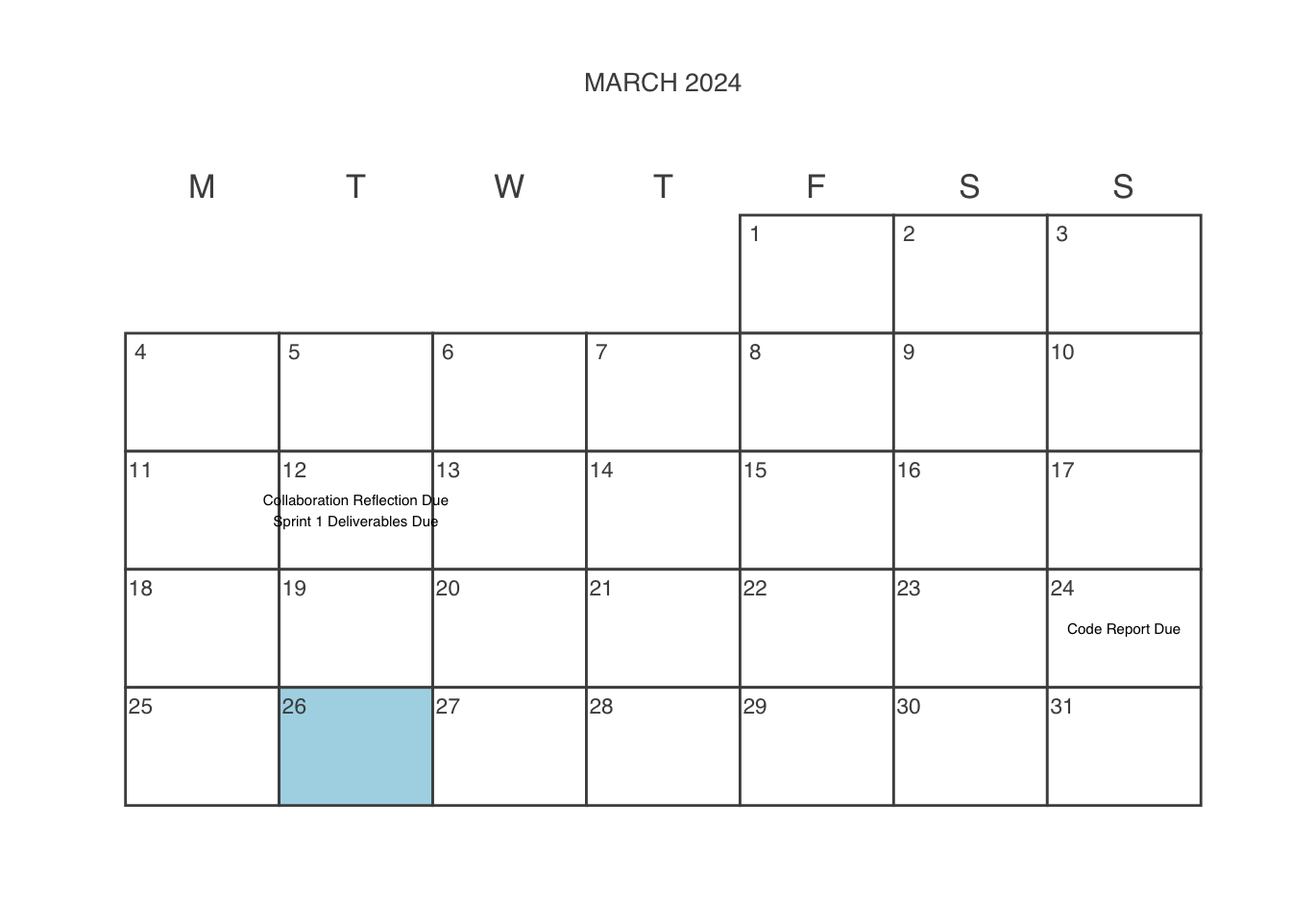
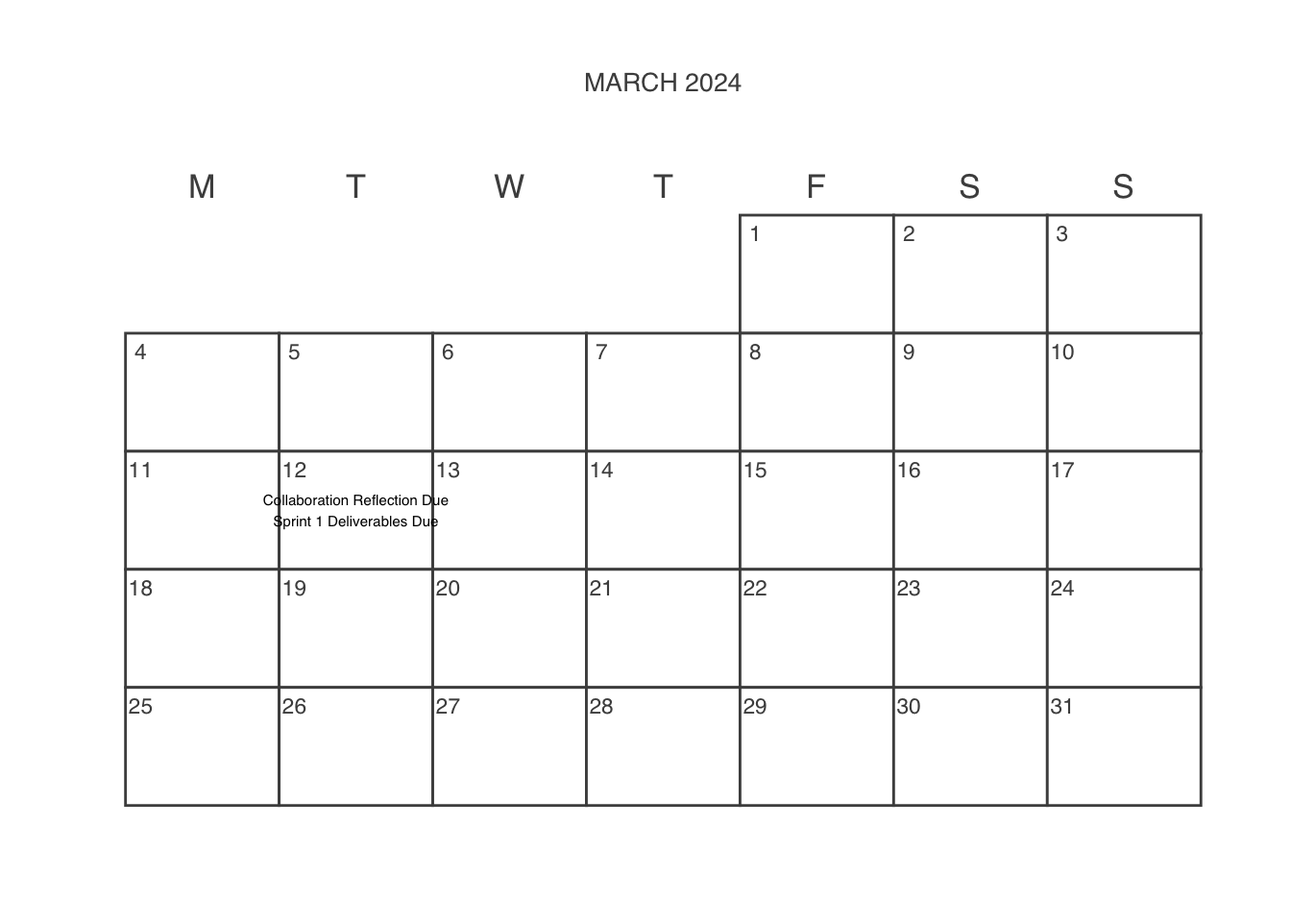
updated assignment schedule

Changed region(s): [[0.2188, 0.75, 0.3438, 0.875], [0.8438, 0.6562, 0.9062, 0.6875]]

diff --git a/docs/schedule.html b/docs/schedule.html
@@ -563,8 +563,7 @@ Calendar View for Major Assignments
 <ul class="nav nav-tabs" role="tablist"><li class="nav-item" role="presentation"><a class="nav-link active" id="tabset-13-1-tab" data-bs-toggle="tab" data-bs-target="#tabset-13-1" role="tab" aria-controls="tabset-13-1" aria-selected="true">Due Today</a></li><li class="nav-item" role="presentation"><a class="nav-link" id="tabset-13-2-tab" data-bs-toggle="tab" data-bs-target="#tabset-13-2" role="tab" aria-controls="tabset-13-2" aria-selected="false">Further Resources</a></li></ul>
 <div class="tab-content">
 <div id="tabset-13-1" class="tab-pane active" role="tabpanel" aria-labelledby="tabset-13-1-tab">
-<p><svg aria-hidden="true" role="img" viewbox="0 0 384 512" style="height:1em;width:0.75em;vertical-align:-0.125em;margin-left:auto;margin-right:auto;font-size:inherit;fill:currentColor;overflow:visible;position:relative;"><path d="M64 464c-8.8 0-16-7.2-16-16V64c0-8.8 7.2-16 16-16H224v80c0 17.7 14.3 32 32 32h80V448c0 8.8-7.2 16-16 16H64zM64 0C28.7 0 0 28.7 0 64V448c0 35.3 28.7 64 64 64H320c35.3 0 64-28.7 64-64V154.5c0-17-6.7-33.3-18.7-45.3L274.7 18.7C262.7 6.7 246.5 0 229.5 0H64zm56 256c-13.3 0-24 10.7-24 24s10.7 24 24 24H264c13.3 0 24-10.7 24-24s-10.7-24-24-24H120zm0 96c-13.3 0-24 10.7-24 24s10.7 24 24 24H264c13.3 0 24-10.7 24-24s-10.7-24-24-24H120z"></path></svg> Get started on <a href="(https://sds-238-community-based-data-science.github.io/public-website-spring-25/assignments.html#collaboration-reflection)">Collaboration Reflection</a><br>
-<svg aria-hidden="true" role="img" viewbox="0 0 384 512" style="height:1em;width:0.75em;vertical-align:-0.125em;margin-left:auto;margin-right:auto;font-size:inherit;fill:currentColor;overflow:visible;position:relative;"><path d="M64 464c-8.8 0-16-7.2-16-16V64c0-8.8 7.2-16 16-16H224v80c0 17.7 14.3 32 32 32h80V448c0 8.8-7.2 16-16 16H64zM64 0C28.7 0 0 28.7 0 64V448c0 35.3 28.7 64 64 64H320c35.3 0 64-28.7 64-64V154.5c0-17-6.7-33.3-18.7-45.3L274.7 18.7C262.7 6.7 246.5 0 229.5 0H64zm56 256c-13.3 0-24 10.7-24 24s10.7 24 24 24H264c13.3 0 24-10.7 24-24s-10.7-24-24-24H120zm0 96c-13.3 0-24 10.7-24 24s10.7 24 24 24H264c13.3 0 24-10.7 24-24s-10.7-24-24-24H120z"></path></svg> Continue working on <a href="https://sds-238-community-based-data-science.github.io/public-website-spring-25/assignments.html#code-reports">Code Report</a></p>
+<p><svg aria-hidden="true" role="img" viewbox="0 0 384 512" style="height:1em;width:0.75em;vertical-align:-0.125em;margin-left:auto;margin-right:auto;font-size:inherit;fill:currentColor;overflow:visible;position:relative;"><path d="M64 464c-8.8 0-16-7.2-16-16V64c0-8.8 7.2-16 16-16H224v80c0 17.7 14.3 32 32 32h80V448c0 8.8-7.2 16-16 16H64zM64 0C28.7 0 0 28.7 0 64V448c0 35.3 28.7 64 64 64H320c35.3 0 64-28.7 64-64V154.5c0-17-6.7-33.3-18.7-45.3L274.7 18.7C262.7 6.7 246.5 0 229.5 0H64zm56 256c-13.3 0-24 10.7-24 24s10.7 24 24 24H264c13.3 0 24-10.7 24-24s-10.7-24-24-24H120zm0 96c-13.3 0-24 10.7-24 24s10.7 24 24 24H264c13.3 0 24-10.7 24-24s-10.7-24-24-24H120z"></path></svg> Get started on <a href="(https://sds-238-community-based-data-science.github.io/public-website-spring-25/assignments.html#collaboration-reflection)">Collaboration Reflection</a></p>
 </div>
 <div id="tabset-13-2" class="tab-pane" role="tabpanel" aria-labelledby="tabset-13-2-tab">
 
@@ -583,8 +582,7 @@ Calendar View for Major Assignments
 <div id="tabset-14-1" class="tab-pane active" role="tabpanel" aria-labelledby="tabset-14-1-tab">
 <p><svg aria-hidden="true" role="img" viewbox="0 0 640 512" style="height:1em;width:1.25em;vertical-align:-0.125em;margin-left:auto;margin-right:auto;font-size:inherit;fill:currentColor;overflow:visible;position:relative;"><path d="M96 128a128 128 0 1 1 256 0A128 128 0 1 1 96 128zM0 482.3C0 383.8 79.8 304 178.3 304h91.4C368.2 304 448 383.8 448 482.3c0 16.4-13.3 29.7-29.7 29.7H29.7C13.3 512 0 498.7 0 482.3zM609.3 512H471.4c5.4-9.4 8.6-20.3 8.6-32v-8c0-60.7-27.1-115.2-69.8-151.8c2.4-.1 4.7-.2 7.1-.2h61.4C567.8 320 640 392.2 640 481.3c0 17-13.8 30.7-30.7 30.7zM432 256c-31 0-59-12.6-79.3-32.9C372.4 196.5 384 163.6 384 128c0-26.8-6.6-52.1-18.3-74.3C384.3 40.1 407.2 32 432 32c61.9 0 112 50.1 112 112s-50.1 112-112 112z"></path></svg> Sprint 1 Deliverables Due (5)<br>
 <svg aria-hidden="true" role="img" viewbox="0 0 640 512" style="height:1em;width:1.25em;vertical-align:-0.125em;margin-left:auto;margin-right:auto;font-size:inherit;fill:currentColor;overflow:visible;position:relative;"><path d="M96 128a128 128 0 1 1 256 0A128 128 0 1 1 96 128zM0 482.3C0 383.8 79.8 304 178.3 304h91.4C368.2 304 448 383.8 448 482.3c0 16.4-13.3 29.7-29.7 29.7H29.7C13.3 512 0 498.7 0 482.3zM609.3 512H471.4c5.4-9.4 8.6-20.3 8.6-32v-8c0-60.7-27.1-115.2-69.8-151.8c2.4-.1 4.7-.2 7.1-.2h61.4C567.8 320 640 392.2 640 481.3c0 17-13.8 30.7-30.7 30.7zM432 256c-31 0-59-12.6-79.3-32.9C372.4 196.5 384 163.6 384 128c0-26.8-6.6-52.1-18.3-74.3C384.3 40.1 407.2 32 432 32c61.9 0 112 50.1 112 112s-50.1 112-112 112z"></path></svg> Don’t forget to complete the <a href="https://docs.google.com/document/d/1KHAv6os1HLhT7lL5jtBmHWDHxI0V73RZ27xDV-PN_xw/edit?tab=t.0">self-assessment form</a>!</p>
-<p><svg aria-hidden="true" role="img" viewbox="0 0 384 512" style="height:1em;width:0.75em;vertical-align:-0.125em;margin-left:auto;margin-right:auto;font-size:inherit;fill:currentColor;overflow:visible;position:relative;"><path d="M64 464c-8.8 0-16-7.2-16-16V64c0-8.8 7.2-16 16-16H224v80c0 17.7 14.3 32 32 32h80V448c0 8.8-7.2 16-16 16H64zM64 0C28.7 0 0 28.7 0 64V448c0 35.3 28.7 64 64 64H320c35.3 0 64-28.7 64-64V154.5c0-17-6.7-33.3-18.7-45.3L274.7 18.7C262.7 6.7 246.5 0 229.5 0H64zm56 256c-13.3 0-24 10.7-24 24s10.7 24 24 24H264c13.3 0 24-10.7 24-24s-10.7-24-24-24H120zm0 96c-13.3 0-24 10.7-24 24s10.7 24 24 24H264c13.3 0 24-10.7 24-24s-10.7-24-24-24H120z"></path></svg> <a href="https://sds-238-community-based-data-science.github.io/public-website-spring-25/assignments.html#collaboration-reflection">Collaboration Reflection</a> Due (4)<br>
-<svg aria-hidden="true" role="img" viewbox="0 0 384 512" style="height:1em;width:0.75em;vertical-align:-0.125em;margin-left:auto;margin-right:auto;font-size:inherit;fill:currentColor;overflow:visible;position:relative;"><path d="M64 464c-8.8 0-16-7.2-16-16V64c0-8.8 7.2-16 16-16H224v80c0 17.7 14.3 32 32 32h80V448c0 8.8-7.2 16-16 16H64zM64 0C28.7 0 0 28.7 0 64V448c0 35.3 28.7 64 64 64H320c35.3 0 64-28.7 64-64V154.5c0-17-6.7-33.3-18.7-45.3L274.7 18.7C262.7 6.7 246.5 0 229.5 0H64zm56 256c-13.3 0-24 10.7-24 24s10.7 24 24 24H264c13.3 0 24-10.7 24-24s-10.7-24-24-24H120zm0 96c-13.3 0-24 10.7-24 24s10.7 24 24 24H264c13.3 0 24-10.7 24-24s-10.7-24-24-24H120z"></path></svg> Continue working on <a href="https://sds-238-community-based-data-science.github.io/public-website-spring-25/assignments.html#code-reports">Code Report</a></p>
+<p><svg aria-hidden="true" role="img" viewbox="0 0 384 512" style="height:1em;width:0.75em;vertical-align:-0.125em;margin-left:auto;margin-right:auto;font-size:inherit;fill:currentColor;overflow:visible;position:relative;"><path d="M64 464c-8.8 0-16-7.2-16-16V64c0-8.8 7.2-16 16-16H224v80c0 17.7 14.3 32 32 32h80V448c0 8.8-7.2 16-16 16H64zM64 0C28.7 0 0 28.7 0 64V448c0 35.3 28.7 64 64 64H320c35.3 0 64-28.7 64-64V154.5c0-17-6.7-33.3-18.7-45.3L274.7 18.7C262.7 6.7 246.5 0 229.5 0H64zm56 256c-13.3 0-24 10.7-24 24s10.7 24 24 24H264c13.3 0 24-10.7 24-24s-10.7-24-24-24H120zm0 96c-13.3 0-24 10.7-24 24s10.7 24 24 24H264c13.3 0 24-10.7 24-24s-10.7-24-24-24H120z"></path></svg> <a href="https://sds-238-community-based-data-science.github.io/public-website-spring-25/assignments.html#collaboration-reflection">Collaboration Reflection</a> Due (4)</p>
 </div>
 <div id="tabset-14-2" class="tab-pane" role="tabpanel" aria-labelledby="tabset-14-2-tab">
 
@@ -635,9 +633,7 @@ Calendar View for Major Assignments
 <ul class="nav nav-tabs" role="tablist"><li class="nav-item" role="presentation"><a class="nav-link active" id="tabset-17-1-tab" data-bs-toggle="tab" data-bs-target="#tabset-17-1" role="tab" aria-controls="tabset-17-1" aria-selected="true">Due Today</a></li><li class="nav-item" role="presentation"><a class="nav-link" id="tabset-17-2-tab" data-bs-toggle="tab" data-bs-target="#tabset-17-2" role="tab" aria-controls="tabset-17-2" aria-selected="false">Further Resources</a></li></ul>
 <div class="tab-content">
 <div id="tabset-17-1" class="tab-pane active" role="tabpanel" aria-labelledby="tabset-17-1-tab">
-<p><svg aria-hidden="true" role="img" viewbox="0 0 384 512" style="height:1em;width:0.75em;vertical-align:-0.125em;margin-left:auto;margin-right:auto;font-size:inherit;fill:currentColor;overflow:visible;position:relative;"><path d="M64 464c-8.8 0-16-7.2-16-16V64c0-8.8 7.2-16 16-16H224v80c0 17.7 14.3 32 32 32h80V448c0 8.8-7.2 16-16 16H64zM64 0C28.7 0 0 28.7 0 64V448c0 35.3 28.7 64 64 64H320c35.3 0 64-28.7 64-64V154.5c0-17-6.7-33.3-18.7-45.3L274.7 18.7C262.7 6.7 246.5 0 229.5 0H64zm56 256c-13.3 0-24 10.7-24 24s10.7 24 24 24H264c13.3 0 24-10.7 24-24s-10.7-24-24-24H120zm0 96c-13.3 0-24 10.7-24 24s10.7 24 24 24H264c13.3 0 24-10.7 24-24s-10.7-24-24-24H120z"></path></svg> <a href="https://sds-238-community-based-data-science.github.io/public-website-spring-25/assignments.html#code-reports">Code Report</a> Due (4)<br>
-<svg aria-hidden="true" role="img" viewbox="0 0 384 512" style="height:1em;width:0.75em;vertical-align:-0.125em;margin-left:auto;margin-right:auto;font-size:inherit;fill:currentColor;overflow:visible;position:relative;"><path d="M64 464c-8.8 0-16-7.2-16-16V64c0-8.8 7.2-16 16-16H224v80c0 17.7 14.3 32 32 32h80V448c0 8.8-7.2 16-16 16H64zM64 0C28.7 0 0 28.7 0 64V448c0 35.3 28.7 64 64 64H320c35.3 0 64-28.7 64-64V154.5c0-17-6.7-33.3-18.7-45.3L274.7 18.7C262.7 6.7 246.5 0 229.5 0H64zm56 256c-13.3 0-24 10.7-24 24s10.7 24 24 24H264c13.3 0 24-10.7 24-24s-10.7-24-24-24H120zm0 96c-13.3 0-24 10.7-24 24s10.7 24 24 24H264c13.3 0 24-10.7 24-24s-10.7-24-24-24H120z"></path></svg> Get started on <a href="https://sds-238-community-based-data-science.github.io/public-website-spring-25/assignments.html#independent-learning-reflection">Independent Learning Reflection</a><br>
-<svg aria-hidden="true" role="img" viewbox="0 0 384 512" style="height:1em;width:0.75em;vertical-align:-0.125em;margin-left:auto;margin-right:auto;font-size:inherit;fill:currentColor;overflow:visible;position:relative;"><path d="M64 464c-8.8 0-16-7.2-16-16V64c0-8.8 7.2-16 16-16H224v80c0 17.7 14.3 32 32 32h80V448c0 8.8-7.2 16-16 16H64zM64 0C28.7 0 0 28.7 0 64V448c0 35.3 28.7 64 64 64H320c35.3 0 64-28.7 64-64V154.5c0-17-6.7-33.3-18.7-45.3L274.7 18.7C262.7 6.7 246.5 0 229.5 0H64zm56 256c-13.3 0-24 10.7-24 24s10.7 24 24 24H264c13.3 0 24-10.7 24-24s-10.7-24-24-24H120zm0 96c-13.3 0-24 10.7-24 24s10.7 24 24 24H264c13.3 0 24-10.7 24-24s-10.7-24-24-24H120z"></path></svg> Get started on <a href="https://sds-238-community-based-data-science.github.io/public-website-spring-25/assignments.html#code-reports">Code Report</a></p>
+<p><svg aria-hidden="true" role="img" viewbox="0 0 384 512" style="height:1em;width:0.75em;vertical-align:-0.125em;margin-left:auto;margin-right:auto;font-size:inherit;fill:currentColor;overflow:visible;position:relative;"><path d="M64 464c-8.8 0-16-7.2-16-16V64c0-8.8 7.2-16 16-16H224v80c0 17.7 14.3 32 32 32h80V448c0 8.8-7.2 16-16 16H64zM64 0C28.7 0 0 28.7 0 64V448c0 35.3 28.7 64 64 64H320c35.3 0 64-28.7 64-64V154.5c0-17-6.7-33.3-18.7-45.3L274.7 18.7C262.7 6.7 246.5 0 229.5 0H64zm56 256c-13.3 0-24 10.7-24 24s10.7 24 24 24H264c13.3 0 24-10.7 24-24s-10.7-24-24-24H120zm0 96c-13.3 0-24 10.7-24 24s10.7 24 24 24H264c13.3 0 24-10.7 24-24s-10.7-24-24-24H120z"></path></svg> Get started on <a href="https://sds-238-community-based-data-science.github.io/public-website-spring-25/assignments.html#independent-learning-reflection">Independent Learning Reflection</a></p>
 </div>
 <div id="tabset-17-2" class="tab-pane" role="tabpanel" aria-labelledby="tabset-17-2-tab">
 
@@ -654,9 +650,7 @@ Calendar View for Major Assignments
 <ul class="nav nav-tabs" role="tablist"><li class="nav-item" role="presentation"><a class="nav-link active" id="tabset-18-1-tab" data-bs-toggle="tab" data-bs-target="#tabset-18-1" role="tab" aria-controls="tabset-18-1" aria-selected="true">Due Today</a></li><li class="nav-item" role="presentation"><a class="nav-link" id="tabset-18-2-tab" data-bs-toggle="tab" data-bs-target="#tabset-18-2" role="tab" aria-controls="tabset-18-2" aria-selected="false">Further Resources</a></li></ul>
 <div class="tab-content">
 <div id="tabset-18-1" class="tab-pane active" role="tabpanel" aria-labelledby="tabset-18-1-tab">
-<p><svg aria-hidden="true" role="img" viewbox="0 0 448 512" style="height:1em;width:0.88em;vertical-align:-0.125em;margin-left:auto;margin-right:auto;font-size:inherit;fill:currentColor;overflow:visible;position:relative;"><path d="M96 0C43 0 0 43 0 96V416c0 53 43 96 96 96H384h32c17.7 0 32-14.3 32-32s-14.3-32-32-32V384c17.7 0 32-14.3 32-32V32c0-17.7-14.3-32-32-32H384 96zm0 384H352v64H96c-17.7 0-32-14.3-32-32s14.3-32 32-32zm32-240c0-8.8 7.2-16 16-16H336c8.8 0 16 7.2 16 16s-7.2 16-16 16H144c-8.8 0-16-7.2-16-16zm16 48H336c8.8 0 16 7.2 16 16s-7.2 16-16 16H144c-8.8 0-16-7.2-16-16s7.2-16 16-16z"></path></svg> Chapter 3 , Costanza-Chock, Sasha (2020). <em>Design Justice: Community-Led Practices to Build the Worlds We Need</em>. Erscheinungsort nicht ermittelbar: The MIT Press. ISBN: 978-0-262-04345-8. <a href="https://app.perusall.com/courses/sds238-01-community-based-data-science/">Read in Perusall</a></p>
-<p><svg aria-hidden="true" role="img" viewbox="0 0 384 512" style="height:1em;width:0.75em;vertical-align:-0.125em;margin-left:auto;margin-right:auto;font-size:inherit;fill:currentColor;overflow:visible;position:relative;"><path d="M64 464c-8.8 0-16-7.2-16-16V64c0-8.8 7.2-16 16-16H224v80c0 17.7 14.3 32 32 32h80V448c0 8.8-7.2 16-16 16H64zM64 0C28.7 0 0 28.7 0 64V448c0 35.3 28.7 64 64 64H320c35.3 0 64-28.7 64-64V154.5c0-17-6.7-33.3-18.7-45.3L274.7 18.7C262.7 6.7 246.5 0 229.5 0H64zm56 256c-13.3 0-24 10.7-24 24s10.7 24 24 24H264c13.3 0 24-10.7 24-24s-10.7-24-24-24H120zm0 96c-13.3 0-24 10.7-24 24s10.7 24 24 24H264c13.3 0 24-10.7 24-24s-10.7-24-24-24H120z"></path></svg> Continue working on <a href="https://sds-238-community-based-data-science.github.io/public-website-spring-25/assignments.html#independent-learning-reflection">Independent Learning Reflection</a><br>
-<svg aria-hidden="true" role="img" viewbox="0 0 384 512" style="height:1em;width:0.75em;vertical-align:-0.125em;margin-left:auto;margin-right:auto;font-size:inherit;fill:currentColor;overflow:visible;position:relative;"><path d="M64 464c-8.8 0-16-7.2-16-16V64c0-8.8 7.2-16 16-16H224v80c0 17.7 14.3 32 32 32h80V448c0 8.8-7.2 16-16 16H64zM64 0C28.7 0 0 28.7 0 64V448c0 35.3 28.7 64 64 64H320c35.3 0 64-28.7 64-64V154.5c0-17-6.7-33.3-18.7-45.3L274.7 18.7C262.7 6.7 246.5 0 229.5 0H64zm56 256c-13.3 0-24 10.7-24 24s10.7 24 24 24H264c13.3 0 24-10.7 24-24s-10.7-24-24-24H120zm0 96c-13.3 0-24 10.7-24 24s10.7 24 24 24H264c13.3 0 24-10.7 24-24s-10.7-24-24-24H120z"></path></svg> Continue working on <a href="https://sds-238-community-based-data-science.github.io/public-website-spring-25/assignments.html#code-reports">Code Report</a></p>
+<p><svg aria-hidden="true" role="img" viewbox="0 0 384 512" style="height:1em;width:0.75em;vertical-align:-0.125em;margin-left:auto;margin-right:auto;font-size:inherit;fill:currentColor;overflow:visible;position:relative;"><path d="M64 464c-8.8 0-16-7.2-16-16V64c0-8.8 7.2-16 16-16H224v80c0 17.7 14.3 32 32 32h80V448c0 8.8-7.2 16-16 16H64zM64 0C28.7 0 0 28.7 0 64V448c0 35.3 28.7 64 64 64H320c35.3 0 64-28.7 64-64V154.5c0-17-6.7-33.3-18.7-45.3L274.7 18.7C262.7 6.7 246.5 0 229.5 0H64zm56 256c-13.3 0-24 10.7-24 24s10.7 24 24 24H264c13.3 0 24-10.7 24-24s-10.7-24-24-24H120zm0 96c-13.3 0-24 10.7-24 24s10.7 24 24 24H264c13.3 0 24-10.7 24-24s-10.7-24-24-24H120z"></path></svg> Continue working on <a href="https://sds-238-community-based-data-science.github.io/public-website-spring-25/assignments.html#independent-learning-reflection">Independent Learning Reflection</a></p>
 </div>
 <div id="tabset-18-2" class="tab-pane" role="tabpanel" aria-labelledby="tabset-18-2-tab">
 
@@ -673,8 +667,7 @@ Calendar View for Major Assignments
 <ul class="nav nav-tabs" role="tablist"><li class="nav-item" role="presentation"><a class="nav-link active" id="tabset-19-1-tab" data-bs-toggle="tab" data-bs-target="#tabset-19-1" role="tab" aria-controls="tabset-19-1" aria-selected="true">Due Today</a></li><li class="nav-item" role="presentation"><a class="nav-link" id="tabset-19-2-tab" data-bs-toggle="tab" data-bs-target="#tabset-19-2" role="tab" aria-controls="tabset-19-2" aria-selected="false">Further Resources</a></li></ul>
 <div class="tab-content">
 <div id="tabset-19-1" class="tab-pane active" role="tabpanel" aria-labelledby="tabset-19-1-tab">
-<p><svg aria-hidden="true" role="img" viewbox="0 0 384 512" style="height:1em;width:0.75em;vertical-align:-0.125em;margin-left:auto;margin-right:auto;font-size:inherit;fill:currentColor;overflow:visible;position:relative;"><path d="M64 464c-8.8 0-16-7.2-16-16V64c0-8.8 7.2-16 16-16H224v80c0 17.7 14.3 32 32 32h80V448c0 8.8-7.2 16-16 16H64zM64 0C28.7 0 0 28.7 0 64V448c0 35.3 28.7 64 64 64H320c35.3 0 64-28.7 64-64V154.5c0-17-6.7-33.3-18.7-45.3L274.7 18.7C262.7 6.7 246.5 0 229.5 0H64zm56 256c-13.3 0-24 10.7-24 24s10.7 24 24 24H264c13.3 0 24-10.7 24-24s-10.7-24-24-24H120zm0 96c-13.3 0-24 10.7-24 24s10.7 24 24 24H264c13.3 0 24-10.7 24-24s-10.7-24-24-24H120z"></path></svg> Continue working on <a href="https://sds-238-community-based-data-science.github.io/public-website-spring-25/assignments.html#independent-learning-reflection">Independent Learning Reflection</a><br>
-<svg aria-hidden="true" role="img" viewbox="0 0 384 512" style="height:1em;width:0.75em;vertical-align:-0.125em;margin-left:auto;margin-right:auto;font-size:inherit;fill:currentColor;overflow:visible;position:relative;"><path d="M64 464c-8.8 0-16-7.2-16-16V64c0-8.8 7.2-16 16-16H224v80c0 17.7 14.3 32 32 32h80V448c0 8.8-7.2 16-16 16H64zM64 0C28.7 0 0 28.7 0 64V448c0 35.3 28.7 64 64 64H320c35.3 0 64-28.7 64-64V154.5c0-17-6.7-33.3-18.7-45.3L274.7 18.7C262.7 6.7 246.5 0 229.5 0H64zm56 256c-13.3 0-24 10.7-24 24s10.7 24 24 24H264c13.3 0 24-10.7 24-24s-10.7-24-24-24H120zm0 96c-13.3 0-24 10.7-24 24s10.7 24 24 24H264c13.3 0 24-10.7 24-24s-10.7-24-24-24H120z"></path></svg> Continue working on <a href="https://sds-238-community-based-data-science.github.io/public-website-spring-25/assignments.html#code-reports">Code Report</a></p>
+<p><svg aria-hidden="true" role="img" viewbox="0 0 384 512" style="height:1em;width:0.75em;vertical-align:-0.125em;margin-left:auto;margin-right:auto;font-size:inherit;fill:currentColor;overflow:visible;position:relative;"><path d="M64 464c-8.8 0-16-7.2-16-16V64c0-8.8 7.2-16 16-16H224v80c0 17.7 14.3 32 32 32h80V448c0 8.8-7.2 16-16 16H64zM64 0C28.7 0 0 28.7 0 64V448c0 35.3 28.7 64 64 64H320c35.3 0 64-28.7 64-64V154.5c0-17-6.7-33.3-18.7-45.3L274.7 18.7C262.7 6.7 246.5 0 229.5 0H64zm56 256c-13.3 0-24 10.7-24 24s10.7 24 24 24H264c13.3 0 24-10.7 24-24s-10.7-24-24-24H120zm0 96c-13.3 0-24 10.7-24 24s10.7 24 24 24H264c13.3 0 24-10.7 24-24s-10.7-24-24-24H120z"></path></svg> Continue working on <a href="https://sds-238-community-based-data-science.github.io/public-website-spring-25/assignments.html#independent-learning-reflection">Independent Learning Reflection</a></p>
 </div>
 <div id="tabset-19-2" class="tab-pane" role="tabpanel" aria-labelledby="tabset-19-2-tab">
 
@@ -691,7 +684,6 @@ Calendar View for Major Assignments
 <ul class="nav nav-tabs" role="tablist"><li class="nav-item" role="presentation"><a class="nav-link active" id="tabset-20-1-tab" data-bs-toggle="tab" data-bs-target="#tabset-20-1" role="tab" aria-controls="tabset-20-1" aria-selected="true">Due Today</a></li><li class="nav-item" role="presentation"><a class="nav-link" id="tabset-20-2-tab" data-bs-toggle="tab" data-bs-target="#tabset-20-2" role="tab" aria-controls="tabset-20-2" aria-selected="false">Further Resources</a></li></ul>
 <div class="tab-content">
 <div id="tabset-20-1" class="tab-pane active" role="tabpanel" aria-labelledby="tabset-20-1-tab">
-<p><svg aria-hidden="true" role="img" viewbox="0 0 448 512" style="height:1em;width:0.88em;vertical-align:-0.125em;margin-left:auto;margin-right:auto;font-size:inherit;fill:currentColor;overflow:visible;position:relative;"><path d="M96 0C43 0 0 43 0 96V416c0 53 43 96 96 96H384h32c17.7 0 32-14.3 32-32s-14.3-32-32-32V384c17.7 0 32-14.3 32-32V32c0-17.7-14.3-32-32-32H384 96zm0 384H352v64H96c-17.7 0-32-14.3-32-32s14.3-32 32-32zm32-240c0-8.8 7.2-16 16-16H336c8.8 0 16 7.2 16 16s-7.2 16-16 16H144c-8.8 0-16-7.2-16-16zm16 48H336c8.8 0 16 7.2 16 16s-7.2 16-16 16H144c-8.8 0-16-7.2-16-16s7.2-16 16-16z"></path></svg> Chapter 4 , Costanza-Chock, Sasha (2020). <em>Design Justice: Community-Led Practices to Build the Worlds We Need</em>. Erscheinungsort nicht ermittelbar: The MIT Press. ISBN: 978-0-262-04345-8. <a href="https://app.perusall.com/courses/sds238-01-community-based-data-science/">Read in Perusall</a></p>
 <p><svg aria-hidden="true" role="img" viewbox="0 0 640 512" style="height:1em;width:1.25em;vertical-align:-0.125em;margin-left:auto;margin-right:auto;font-size:inherit;fill:currentColor;overflow:visible;position:relative;"><path d="M96 128a128 128 0 1 1 256 0A128 128 0 1 1 96 128zM0 482.3C0 383.8 79.8 304 178.3 304h91.4C368.2 304 448 383.8 448 482.3c0 16.4-13.3 29.7-29.7 29.7H29.7C13.3 512 0 498.7 0 482.3zM609.3 512H471.4c5.4-9.4 8.6-20.3 8.6-32v-8c0-60.7-27.1-115.2-69.8-151.8c2.4-.1 4.7-.2 7.1-.2h61.4C567.8 320 640 392.2 640 481.3c0 17-13.8 30.7-30.7 30.7zM432 256c-31 0-59-12.6-79.3-32.9C372.4 196.5 384 163.6 384 128c0-26.8-6.6-52.1-18.3-74.3C384.3 40.1 407.2 32 432 32c61.9 0 112 50.1 112 112s-50.1 112-112 112z"></path></svg> Sprint 2 Deliverables Due (5)<br>
 <svg aria-hidden="true" role="img" viewbox="0 0 640 512" style="height:1em;width:1.25em;vertical-align:-0.125em;margin-left:auto;margin-right:auto;font-size:inherit;fill:currentColor;overflow:visible;position:relative;"><path d="M96 128a128 128 0 1 1 256 0A128 128 0 1 1 96 128zM0 482.3C0 383.8 79.8 304 178.3 304h91.4C368.2 304 448 383.8 448 482.3c0 16.4-13.3 29.7-29.7 29.7H29.7C13.3 512 0 498.7 0 482.3zM609.3 512H471.4c5.4-9.4 8.6-20.3 8.6-32v-8c0-60.7-27.1-115.2-69.8-151.8c2.4-.1 4.7-.2 7.1-.2h61.4C567.8 320 640 392.2 640 481.3c0 17-13.8 30.7-30.7 30.7zM432 256c-31 0-59-12.6-79.3-32.9C372.4 196.5 384 163.6 384 128c0-26.8-6.6-52.1-18.3-74.3C384.3 40.1 407.2 32 432 32c61.9 0 112 50.1 112 112s-50.1 112-112 112z"></path></svg> Don’t forget to complete the <a href="https://docs.google.com/document/d/1KHAv6os1HLhT7lL5jtBmHWDHxI0V73RZ27xDV-PN_xw/edit?tab=t.0">self-assessment form</a>!</p>
 <p><svg aria-hidden="true" role="img" viewbox="0 0 384 512" style="height:1em;width:0.75em;vertical-align:-0.125em;margin-left:auto;margin-right:auto;font-size:inherit;fill:currentColor;overflow:visible;position:relative;"><path d="M64 464c-8.8 0-16-7.2-16-16V64c0-8.8 7.2-16 16-16H224v80c0 17.7 14.3 32 32 32h80V448c0 8.8-7.2 16-16 16H64zM64 0C28.7 0 0 28.7 0 64V448c0 35.3 28.7 64 64 64H320c35.3 0 64-28.7 64-64V154.5c0-17-6.7-33.3-18.7-45.3L274.7 18.7C262.7 6.7 246.5 0 229.5 0H64zm56 256c-13.3 0-24 10.7-24 24s10.7 24 24 24H264c13.3 0 24-10.7 24-24s-10.7-24-24-24H120zm0 96c-13.3 0-24 10.7-24 24s10.7 24 24 24H264c13.3 0 24-10.7 24-24s-10.7-24-24-24H120z"></path></svg> <a href="https://sds-238-community-based-data-science.github.io/public-website-spring-25/assignments.html#independent-learning-reflection">Independent Learning Reflection</a> Due (4)<br>
@@ -712,7 +704,7 @@ Calendar View for Major Assignments
 <ul class="nav nav-tabs" role="tablist"><li class="nav-item" role="presentation"><a class="nav-link active" id="tabset-21-1-tab" data-bs-toggle="tab" data-bs-target="#tabset-21-1" role="tab" aria-controls="tabset-21-1" aria-selected="true">Due Today</a></li><li class="nav-item" role="presentation"><a class="nav-link" id="tabset-21-2-tab" data-bs-toggle="tab" data-bs-target="#tabset-21-2" role="tab" aria-controls="tabset-21-2" aria-selected="false">Further Resources</a></li></ul>
 <div class="tab-content">
 <div id="tabset-21-1" class="tab-pane active" role="tabpanel" aria-labelledby="tabset-21-1-tab">
-
+<p><svg aria-hidden="true" role="img" viewbox="0 0 448 512" style="height:1em;width:0.88em;vertical-align:-0.125em;margin-left:auto;margin-right:auto;font-size:inherit;fill:currentColor;overflow:visible;position:relative;"><path d="M96 0C43 0 0 43 0 96V416c0 53 43 96 96 96H384h32c17.7 0 32-14.3 32-32s-14.3-32-32-32V384c17.7 0 32-14.3 32-32V32c0-17.7-14.3-32-32-32H384 96zm0 384H352v64H96c-17.7 0-32-14.3-32-32s14.3-32 32-32zm32-240c0-8.8 7.2-16 16-16H336c8.8 0 16 7.2 16 16s-7.2 16-16 16H144c-8.8 0-16-7.2-16-16zm16 48H336c8.8 0 16 7.2 16 16s-7.2 16-16 16H144c-8.8 0-16-7.2-16-16s7.2-16 16-16z"></path></svg> Chapter 3 , Costanza-Chock, Sasha (2020). <em>Design Justice: Community-Led Practices to Build the Worlds We Need</em>. Erscheinungsort nicht ermittelbar: The MIT Press. ISBN: 978-0-262-04345-8. <a href="https://app.perusall.com/courses/sds238-01-community-based-data-science/">Read in Perusall</a></p>
 </div>
 <div id="tabset-21-2" class="tab-pane" role="tabpanel" aria-labelledby="tabset-21-2-tab">
 
@@ -729,8 +721,7 @@ Calendar View for Major Assignments
 <ul class="nav nav-tabs" role="tablist"><li class="nav-item" role="presentation"><a class="nav-link active" id="tabset-22-1-tab" data-bs-toggle="tab" data-bs-target="#tabset-22-1" role="tab" aria-controls="tabset-22-1" aria-selected="true">Due Today</a></li><li class="nav-item" role="presentation"><a class="nav-link" id="tabset-22-2-tab" data-bs-toggle="tab" data-bs-target="#tabset-22-2" role="tab" aria-controls="tabset-22-2" aria-selected="false">Further Resources</a></li></ul>
 <div class="tab-content">
 <div id="tabset-22-1" class="tab-pane active" role="tabpanel" aria-labelledby="tabset-22-1-tab">
-<p><svg aria-hidden="true" role="img" viewbox="0 0 448 512" style="height:1em;width:0.88em;vertical-align:-0.125em;margin-left:auto;margin-right:auto;font-size:inherit;fill:currentColor;overflow:visible;position:relative;"><path d="M96 0C43 0 0 43 0 96V416c0 53 43 96 96 96H384h32c17.7 0 32-14.3 32-32s-14.3-32-32-32V384c17.7 0 32-14.3 32-32V32c0-17.7-14.3-32-32-32H384 96zm0 384H352v64H96c-17.7 0-32-14.3-32-32s14.3-32 32-32zm32-240c0-8.8 7.2-16 16-16H336c8.8 0 16 7.2 16 16s-7.2 16-16 16H144c-8.8 0-16-7.2-16-16zm16 48H336c8.8 0 16 7.2 16 16s-7.2 16-16 16H144c-8.8 0-16-7.2-16-16s7.2-16 16-16z"></path></svg> Chapter 5 , Costanza-Chock, Sasha (2020). <em>Design Justice: Community-Led Practices to Build the Worlds We Need</em>. Erscheinungsort nicht ermittelbar: The MIT Press. ISBN: 978-0-262-04345-8. <a href="https://app.perusall.com/courses/sds238-01-community-based-data-science/">Read in Perusall</a></p>
-<p><svg aria-hidden="true" role="img" viewbox="0 0 640 512" style="height:1em;width:1.25em;vertical-align:-0.125em;margin-left:auto;margin-right:auto;font-size:inherit;fill:currentColor;overflow:visible;position:relative;"><path d="M96 128a128 128 0 1 1 256 0A128 128 0 1 1 96 128zM0 482.3C0 383.8 79.8 304 178.3 304h91.4C368.2 304 448 383.8 448 482.3c0 16.4-13.3 29.7-29.7 29.7H29.7C13.3 512 0 498.7 0 482.3zM609.3 512H471.4c5.4-9.4 8.6-20.3 8.6-32v-8c0-60.7-27.1-115.2-69.8-151.8c2.4-.1 4.7-.2 7.1-.2h61.4C567.8 320 640 392.2 640 481.3c0 17-13.8 30.7-30.7 30.7zM432 256c-31 0-59-12.6-79.3-32.9C372.4 196.5 384 163.6 384 128c0-26.8-6.6-52.1-18.3-74.3C384.3 40.1 407.2 32 432 32c61.9 0 112 50.1 112 112s-50.1 112-112 112z"></path></svg> Mid-Design Assessment Due (4)</p>
+
 </div>
 <div id="tabset-22-2" class="tab-pane" role="tabpanel" aria-labelledby="tabset-22-2-tab">
 
@@ -747,7 +738,7 @@ Calendar View for Major Assignments
 <ul class="nav nav-tabs" role="tablist"><li class="nav-item" role="presentation"><a class="nav-link active" id="tabset-23-1-tab" data-bs-toggle="tab" data-bs-target="#tabset-23-1" role="tab" aria-controls="tabset-23-1" aria-selected="true">Due Today</a></li><li class="nav-item" role="presentation"><a class="nav-link" id="tabset-23-2-tab" data-bs-toggle="tab" data-bs-target="#tabset-23-2" role="tab" aria-controls="tabset-23-2" aria-selected="false">Further Resources</a></li></ul>
 <div class="tab-content">
 <div id="tabset-23-1" class="tab-pane active" role="tabpanel" aria-labelledby="tabset-23-1-tab">
-
+<p><svg aria-hidden="true" role="img" viewbox="0 0 384 512" style="height:1em;width:0.75em;vertical-align:-0.125em;margin-left:auto;margin-right:auto;font-size:inherit;fill:currentColor;overflow:visible;position:relative;"><path d="M64 464c-8.8 0-16-7.2-16-16V64c0-8.8 7.2-16 16-16H224v80c0 17.7 14.3 32 32 32h80V448c0 8.8-7.2 16-16 16H64zM64 0C28.7 0 0 28.7 0 64V448c0 35.3 28.7 64 64 64H320c35.3 0 64-28.7 64-64V154.5c0-17-6.7-33.3-18.7-45.3L274.7 18.7C262.7 6.7 246.5 0 229.5 0H64zm56 256c-13.3 0-24 10.7-24 24s10.7 24 24 24H264c13.3 0 24-10.7 24-24s-10.7-24-24-24H120zm0 96c-13.3 0-24 10.7-24 24s10.7 24 24 24H264c13.3 0 24-10.7 24-24s-10.7-24-24-24H120z"></path></svg> <a href="https://sds-238-community-based-data-science.github.io/public-website-spring-25/assignments.html#code-reports">Code Report</a> Due (4)</p>
 </div>
 <div id="tabset-23-2" class="tab-pane" role="tabpanel" aria-labelledby="tabset-23-2-tab">
 
@@ -764,8 +755,7 @@ Calendar View for Major Assignments
 <ul class="nav nav-tabs" role="tablist"><li class="nav-item" role="presentation"><a class="nav-link active" id="tabset-24-1-tab" data-bs-toggle="tab" data-bs-target="#tabset-24-1" role="tab" aria-controls="tabset-24-1" aria-selected="true">Due Today</a></li><li class="nav-item" role="presentation"><a class="nav-link" id="tabset-24-2-tab" data-bs-toggle="tab" data-bs-target="#tabset-24-2" role="tab" aria-controls="tabset-24-2" aria-selected="false">Further Resources</a></li></ul>
 <div class="tab-content">
 <div id="tabset-24-1" class="tab-pane active" role="tabpanel" aria-labelledby="tabset-24-1-tab">
-<p><svg aria-hidden="true" role="img" viewbox="0 0 448 512" style="height:1em;width:0.88em;vertical-align:-0.125em;margin-left:auto;margin-right:auto;font-size:inherit;fill:currentColor;overflow:visible;position:relative;"><path d="M96 0C43 0 0 43 0 96V416c0 53 43 96 96 96H384h32c17.7 0 32-14.3 32-32s-14.3-32-32-32V384c17.7 0 32-14.3 32-32V32c0-17.7-14.3-32-32-32H384 96zm0 384H352v64H96c-17.7 0-32-14.3-32-32s14.3-32 32-32zm32-240c0-8.8 7.2-16 16-16H336c8.8 0 16 7.2 16 16s-7.2 16-16 16H144c-8.8 0-16-7.2-16-16zm16 48H336c8.8 0 16 7.2 16 16s-7.2 16-16 16H144c-8.8 0-16-7.2-16-16s7.2-16 16-16z"></path></svg> Conclusion , Costanza-Chock, Sasha (2020). <em>Design Justice: Community-Led Practices to Build the Worlds We Need</em>. Erscheinungsort nicht ermittelbar: The MIT Press. ISBN: 978-0-262-04345-8. <a href="https://app.perusall.com/courses/sds238-01-community-based-data-science/">Read in Perusall</a></p>
-<p><svg aria-hidden="true" role="img" viewbox="0 0 640 512" style="height:1em;width:1.25em;vertical-align:-0.125em;margin-left:auto;margin-right:auto;font-size:inherit;fill:currentColor;overflow:visible;position:relative;"><path d="M96 128a128 128 0 1 1 256 0A128 128 0 1 1 96 128zM0 482.3C0 383.8 79.8 304 178.3 304h91.4C368.2 304 448 383.8 448 482.3c0 16.4-13.3 29.7-29.7 29.7H29.7C13.3 512 0 498.7 0 482.3zM609.3 512H471.4c5.4-9.4 8.6-20.3 8.6-32v-8c0-60.7-27.1-115.2-69.8-151.8c2.4-.1 4.7-.2 7.1-.2h61.4C567.8 320 640 392.2 640 481.3c0 17-13.8 30.7-30.7 30.7zM432 256c-31 0-59-12.6-79.3-32.9C372.4 196.5 384 163.6 384 128c0-26.8-6.6-52.1-18.3-74.3C384.3 40.1 407.2 32 432 32c61.9 0 112 50.1 112 112s-50.1 112-112 112z"></path></svg> Project Documentation Due (4)</p>
+
 </div>
 <div id="tabset-24-2" class="tab-pane" role="tabpanel" aria-labelledby="tabset-24-2-tab">
 
@@ -817,6 +807,7 @@ Calendar View for Major Assignments
 <ul class="nav nav-tabs" role="tablist"><li class="nav-item" role="presentation"><a class="nav-link active" id="tabset-27-1-tab" data-bs-toggle="tab" data-bs-target="#tabset-27-1" role="tab" aria-controls="tabset-27-1" aria-selected="true">Due Today</a></li><li class="nav-item" role="presentation"><a class="nav-link" id="tabset-27-2-tab" data-bs-toggle="tab" data-bs-target="#tabset-27-2" role="tab" aria-controls="tabset-27-2" aria-selected="false">Further Resources</a></li></ul>
 <div class="tab-content">
 <div id="tabset-27-1" class="tab-pane active" role="tabpanel" aria-labelledby="tabset-27-1-tab">
+<p><svg aria-hidden="true" role="img" viewbox="0 0 448 512" style="height:1em;width:0.88em;vertical-align:-0.125em;margin-left:auto;margin-right:auto;font-size:inherit;fill:currentColor;overflow:visible;position:relative;"><path d="M96 0C43 0 0 43 0 96V416c0 53 43 96 96 96H384h32c17.7 0 32-14.3 32-32s-14.3-32-32-32V384c17.7 0 32-14.3 32-32V32c0-17.7-14.3-32-32-32H384 96zm0 384H352v64H96c-17.7 0-32-14.3-32-32s14.3-32 32-32zm32-240c0-8.8 7.2-16 16-16H336c8.8 0 16 7.2 16 16s-7.2 16-16 16H144c-8.8 0-16-7.2-16-16zm16 48H336c8.8 0 16 7.2 16 16s-7.2 16-16 16H144c-8.8 0-16-7.2-16-16s7.2-16 16-16z"></path></svg> Conclusion , Costanza-Chock, Sasha (2020). <em>Design Justice: Community-Led Practices to Build the Worlds We Need</em>. Erscheinungsort nicht ermittelbar: The MIT Press. ISBN: 978-0-262-04345-8. <a href="https://app.perusall.com/courses/sds238-01-community-based-data-science/">Read in Perusall</a></p>
 <p><svg aria-hidden="true" role="img" viewbox="0 0 384 512" style="height:1em;width:0.75em;vertical-align:-0.125em;margin-left:auto;margin-right:auto;font-size:inherit;fill:currentColor;overflow:visible;position:relative;"><path d="M64 464c-8.8 0-16-7.2-16-16V64c0-8.8 7.2-16 16-16H224v80c0 17.7 14.3 32 32 32h80V448c0 8.8-7.2 16-16 16H64zM64 0C28.7 0 0 28.7 0 64V448c0 35.3 28.7 64 64 64H320c35.3 0 64-28.7 64-64V154.5c0-17-6.7-33.3-18.7-45.3L274.7 18.7C262.7 6.7 246.5 0 229.5 0H64zm56 256c-13.3 0-24 10.7-24 24s10.7 24 24 24H264c13.3 0 24-10.7 24-24s-10.7-24-24-24H120zm0 96c-13.3 0-24 10.7-24 24s10.7 24 24 24H264c13.3 0 24-10.7 24-24s-10.7-24-24-24H120z"></path></svg> Get started on Design Justice Reflection</p>
 </div>
 <div id="tabset-27-2" class="tab-pane" role="tabpanel" aria-labelledby="tabset-27-2-tab">
